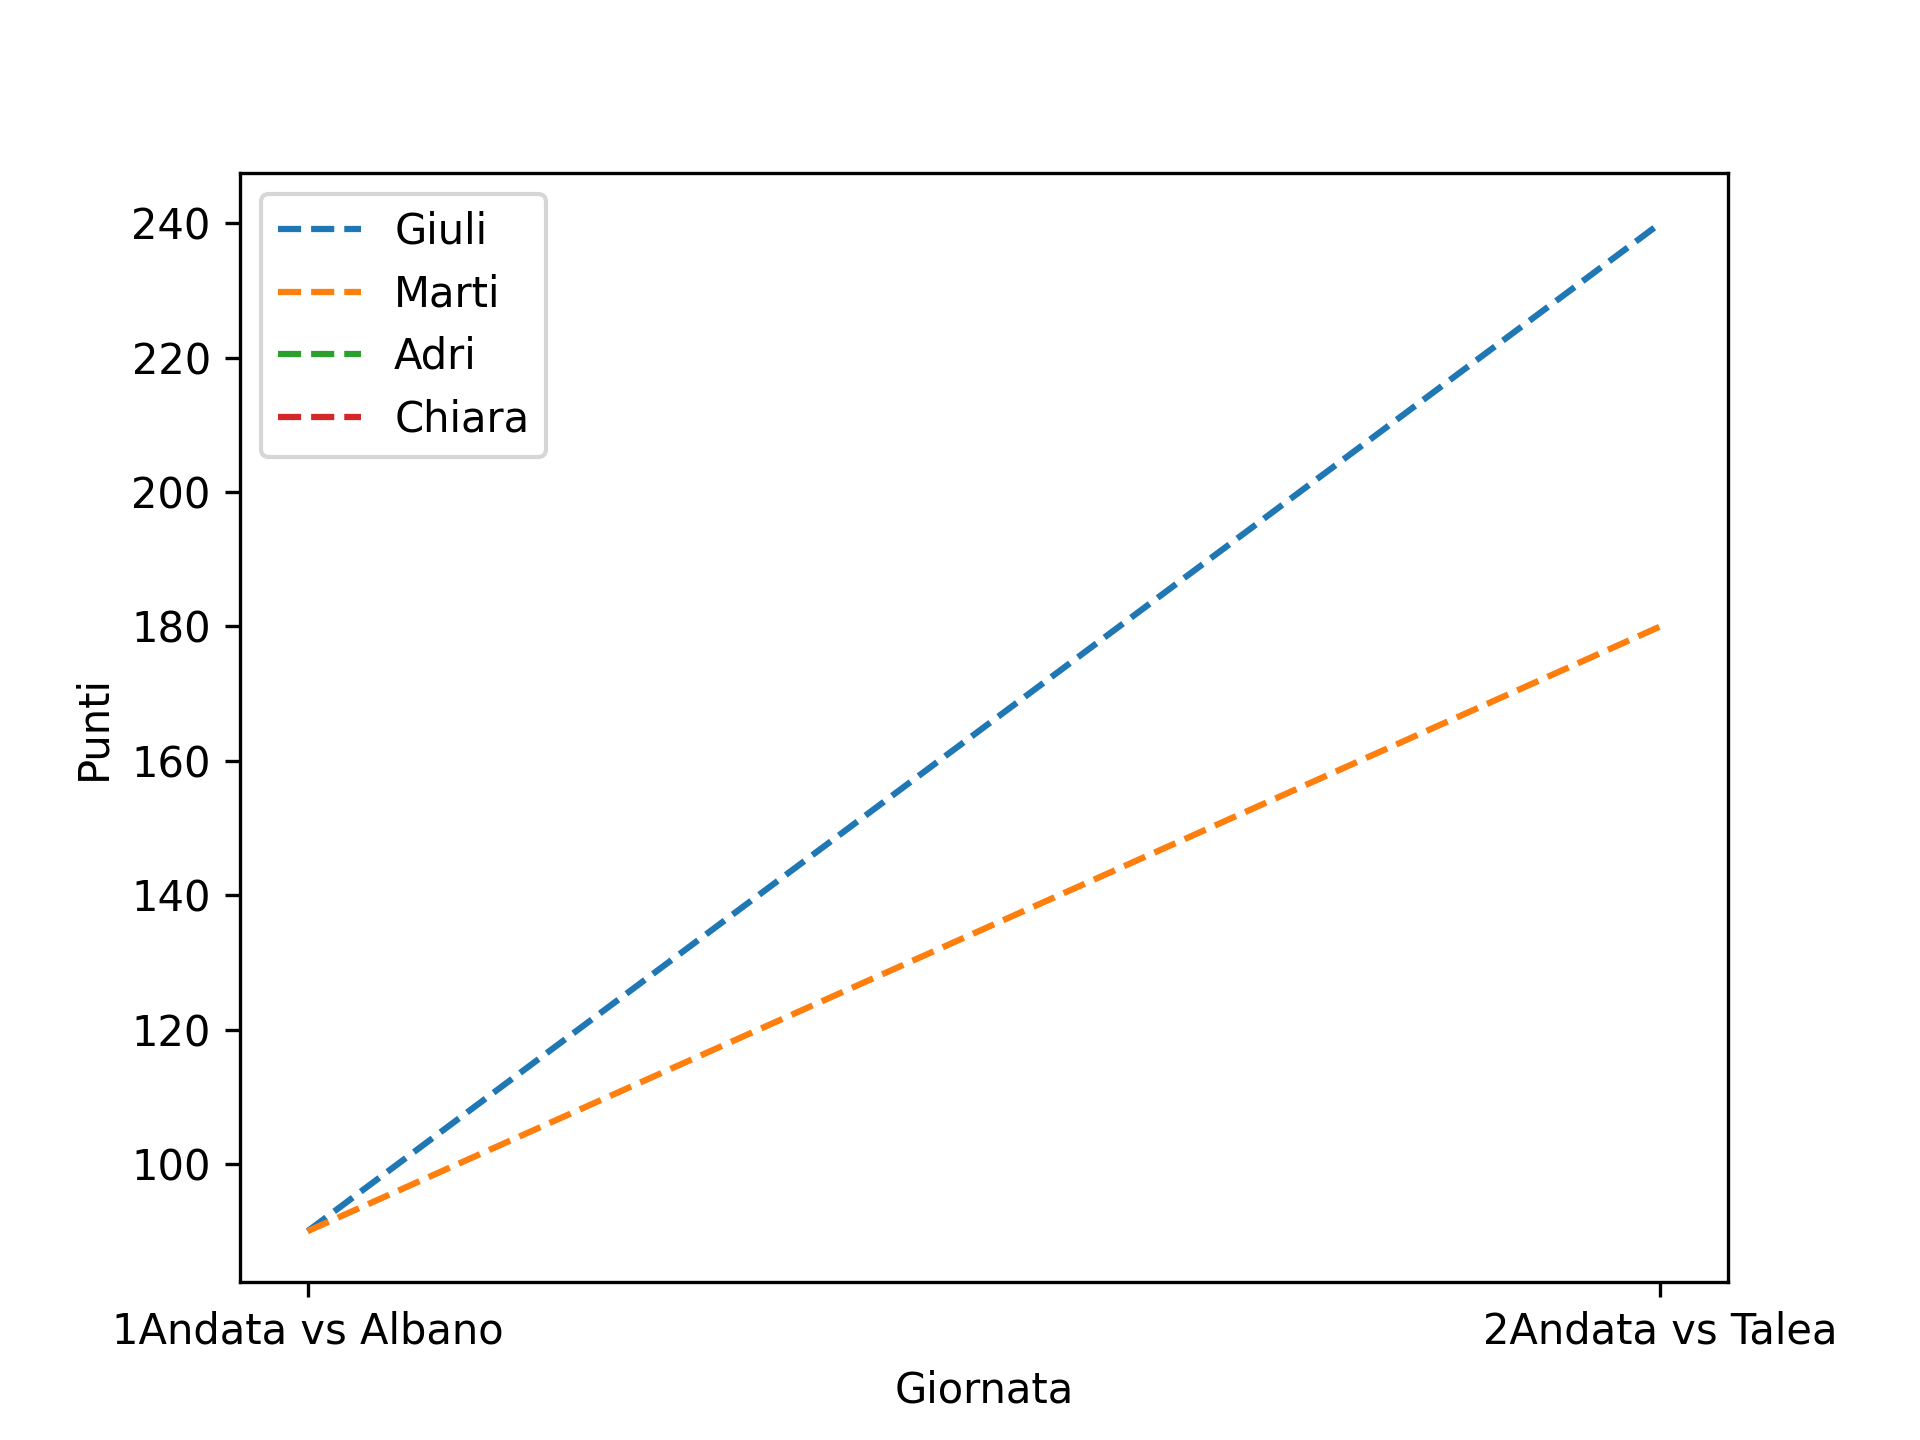
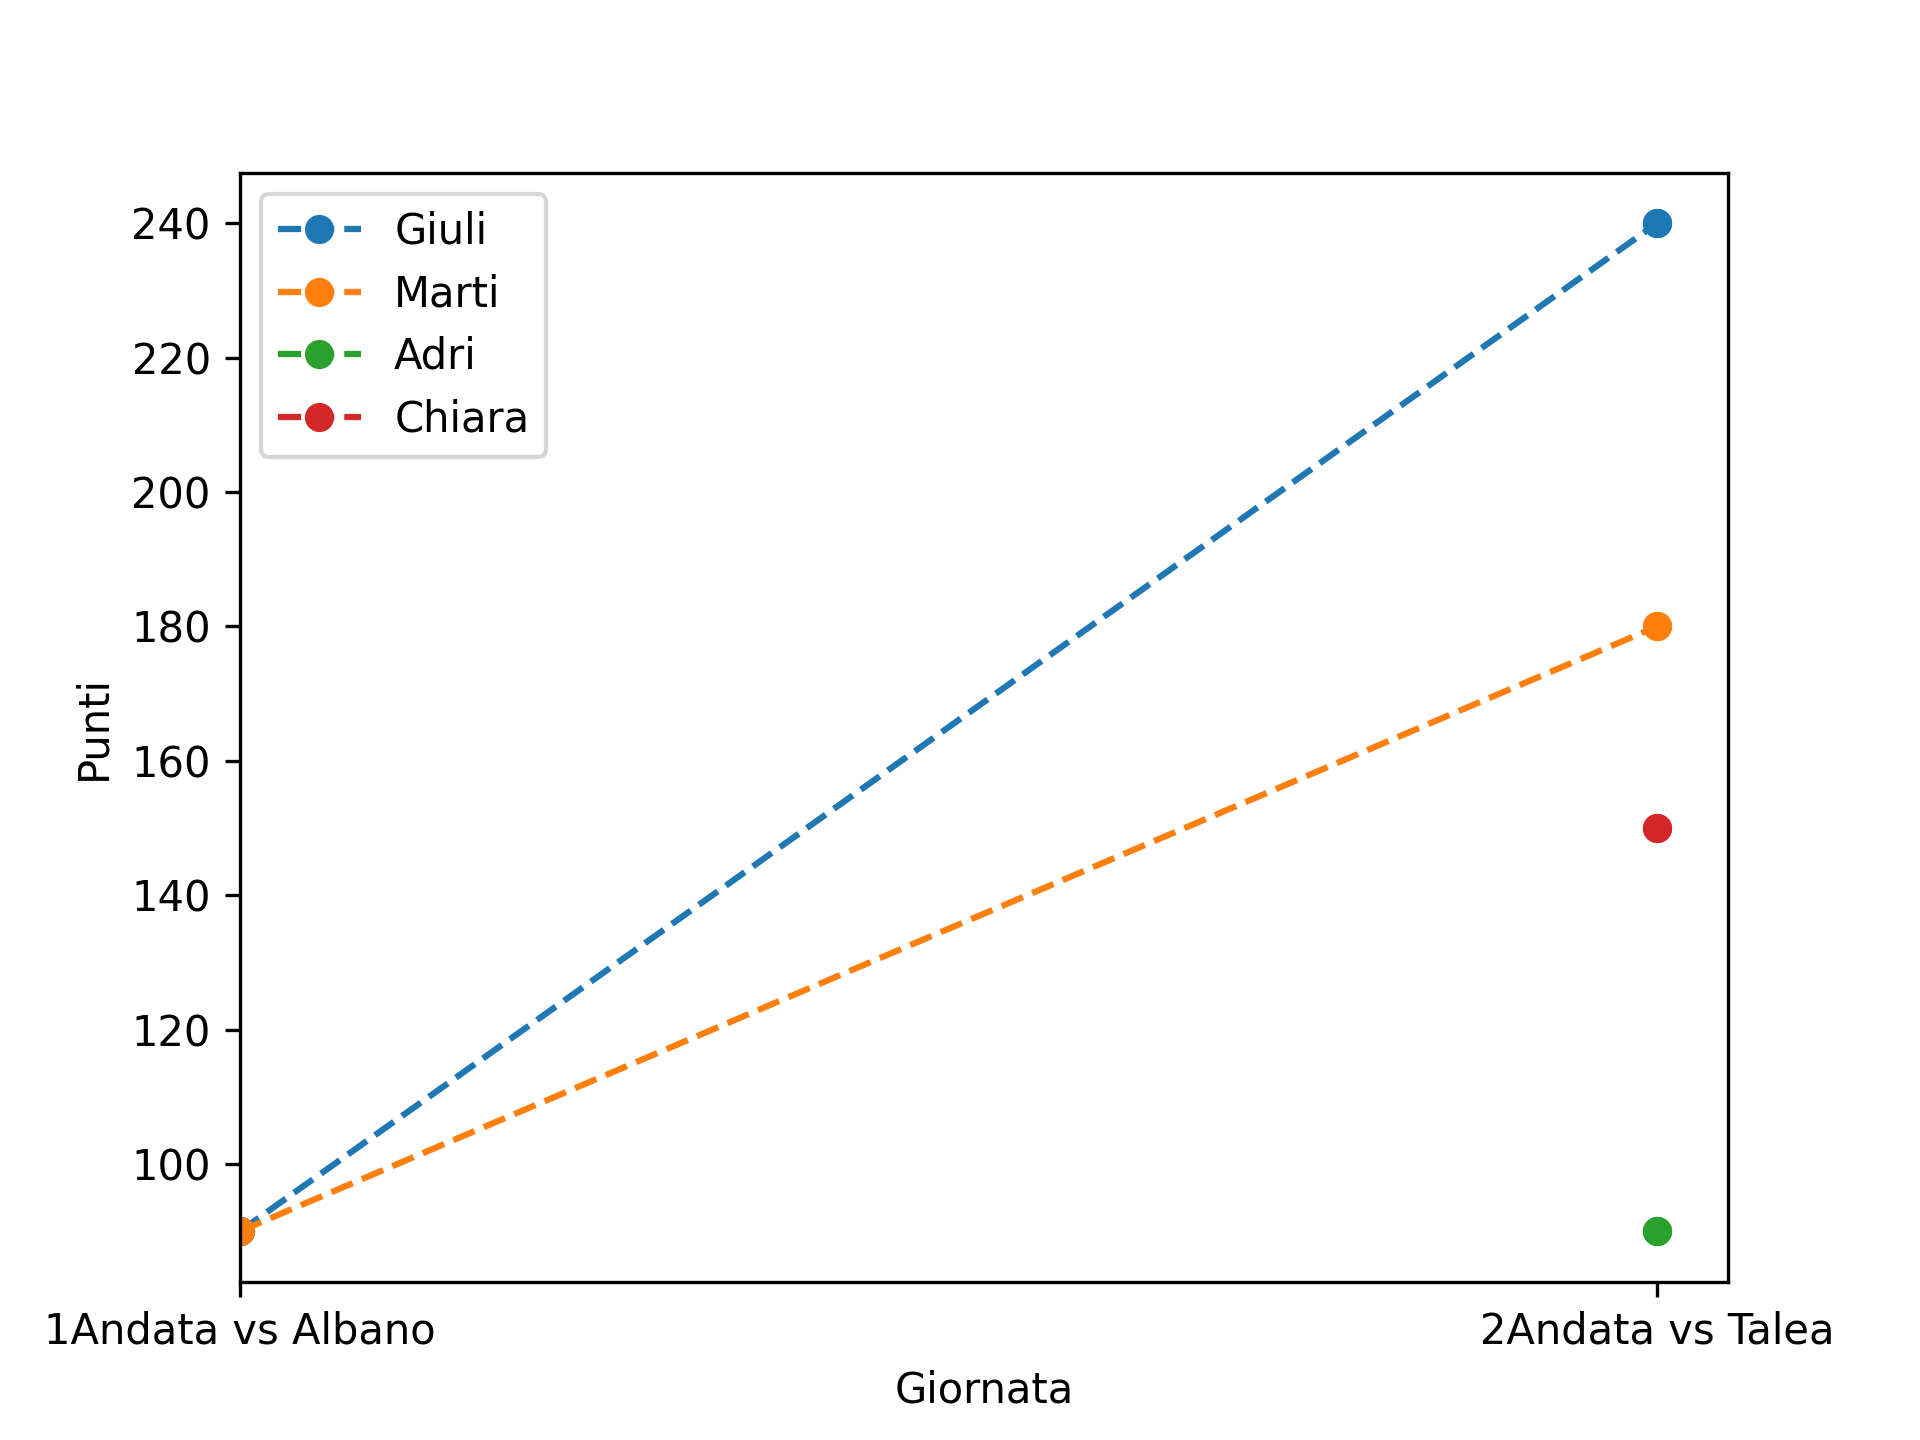
improve viz and classifica

diff --git a/data_utils.py b/data_utils.py
@@ -50,6 +50,7 @@ def get_cumulative_points(df: pd.DataFrame):
 def make_ranking(df: pd.DataFrame):
     df = df.loc[df["Name"] != "Coach", :]
     df_ranking = df.groupby("Name", as_index=True)["point"].sum()
+    df_ranking.sort_values()
     return df_ranking
 
 def plot_most_selected_coach(df: pd.DataFrame, save:bool=True):
@@ -86,7 +87,8 @@ def plot_trend_points(df):
 
     for name in df.Name.unique():
         ax.plot(df[df.Name == name].Date, df[df.Name == name].cumulative_points, label=name, linestyle="dashed", marker='o')
-
+        ax.scatter(df[df.Name == name].Date, df[df.Name == name].cumulative_points)
+    ax.set_xlim(left=0)
     ax.set_xlabel("Giornata")
     ax.set_ylabel("Punti")
     ax.legend(loc='best')
